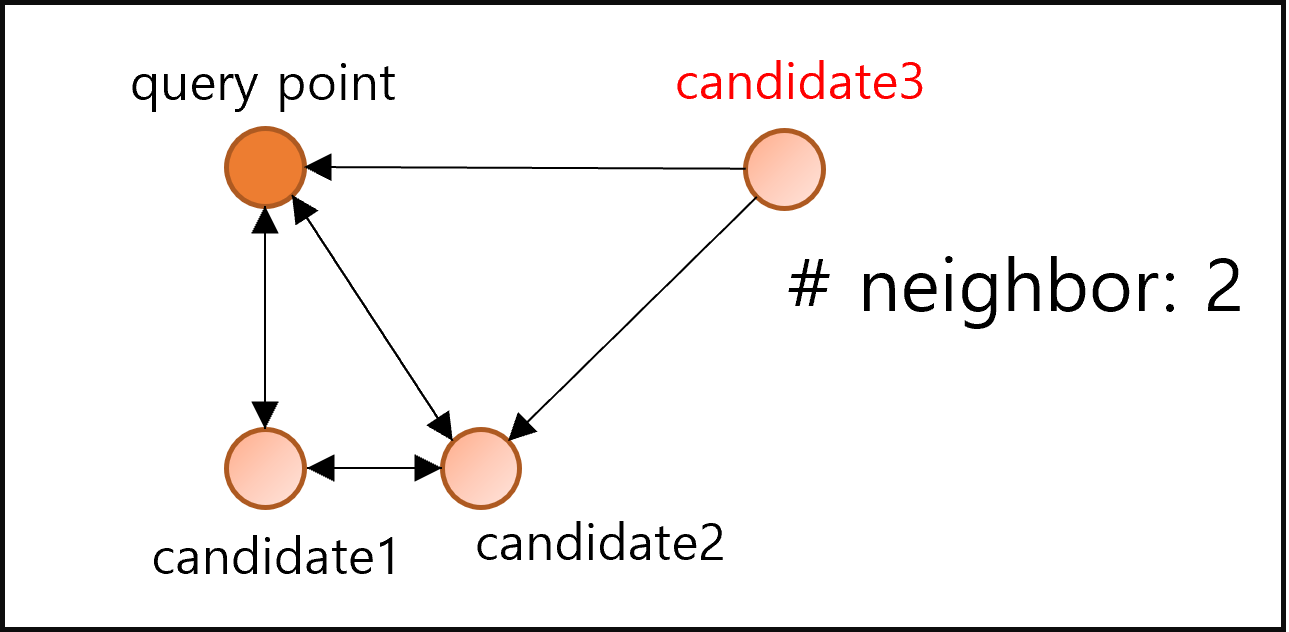
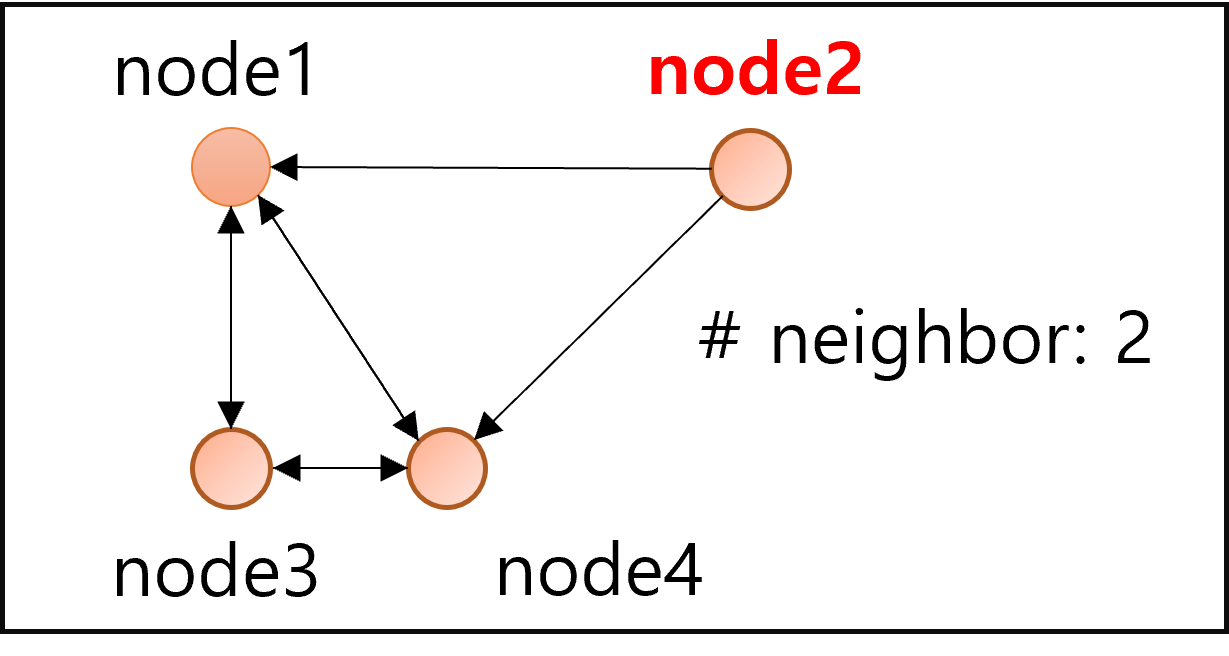
update hnsw.md

diff --git a/_posts/2024-05-19-HNSW.md b/_posts/2024-05-19-HNSW.md
@@ -72,7 +72,7 @@ author_profile: true
     <img src="/images/2024-05-19-HNSW/select_neighbor_simple.png" width="512"/>
 </p>
 
-- 위 그림과 같이 탐색이 불가능한 노드 발생: **candidate3**
+- 위 그림과 같이 탐색이 불가능한 노드 발생: **node2**
 - 해당 논문의 NSW Graph는 bidirectional edge를 사용하나, bidirectional edge여도 아래 그림의 경우 탐색이 불가능한 노드(혹은 클러스터) 발생
 - 즉, 아예 에지가 생성되지 않음
 
@@ -427,7 +427,7 @@ tableint addPoint(const void *data_point, labeltype label, int level) {
 - Yu. A. Malkov, D. A. Yashunin. "Efficient and robust approximate nearest neighbor search using Hierarchical Navigable Small World". IEEE Transactions on pattern analysis and machine intelligence. 2018. [http://arxiv.org/pdf/1603.09320](http://arxiv.org/pdf/1603.09320).
 - Github. nmslib. "hnswlib". [https://github.com/nmslib/hnswlib](https://github.com/nmslib/hnswlib).
 - Daniel@World. 2019.04.01. "Navigable Small World Graphs for Approximate Nearest Neighbors: Implementation in Rust and Time Series Experiments.". [http://daniel-at-world.blogspot.com/2019/04/navigable-small-world-graphs-for.html](http://daniel-at-world.blogspot.com/2019/04/navigable-small-world-graphs-for.html).
-- GeeksforGeeks. 2024.06.18. "Greedy Best First Search Algorithm". [https://www.geeksforgeeks.org/greedy-best-first-search-algorithm/](https://www.geeksforgeeks.org/greedy-best-first-search-algorithm/)
+- GeeksforGeeks. 2024.06.18. "Greedy Best First Search Algorithm". [https://www.geeksforgeeks.org/greedy-best-first-search-algorithm/](https://www.geeksforgeeks.org/greedy-best-first-search-algorithm/).
 - Medium. Vyacheslav Efimov. 2023.06.16. "Similarity Search, Part 4: Hierarchical Navigable Small World". [https://towardsdatascience.com/similarity-search-part-4-hierarchical-navigable-small-world-hnsw-2aad4fe87d37](https://towardsdatascience.com/similarity-search-part-4-hierarchical-navigable-small-world-hnsw-2aad4fe87d37).
 - 잉여의 생각저장소. 2023.02.07. "Lucene ANN 분석1 - HNSW Algorithm". [https://chocolate-life.tistory.com/11](https://chocolate-life.tistory.com/11).
 - NHN Cloud. 2023.01.04. "[NHN FORWARD 22] 대충? 거의 정확하다! 벡터 검색 엔진에 ANN HNSW 알고리즘 도입기 (feat. SWIG Golang)". [https://www.youtube.com/watch?v=hCqF4tDPNBw&t=1050s](https://www.youtube.com/watch?v=hCqF4tDPNBw&t=1050s)
